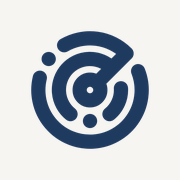
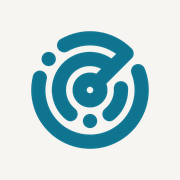
Vurgu rengi: camgöbeği (tek token değişikliği, iki tema)
Sinyal yeşili hem aynı adlı başka bir sitenin renkleriyle aynıydı hem de "olumlu" anlamsal
yeşiliyle karışıyordu. Vurgu artık camgöbeği; olumlu/olumsuz/nötr renklerine dokunulmadı.
- Koyu tema: vurgu ve dolgu #22D3EE, üstündeki yazı #083344 (7.4:1); koyu kartta metin
  olarak 9.9:1.
- Açık tema: metin olarak #0E7490 (kremde 4.9:1, beyazda 5.3:1 — önerilen #0891B2 metinde
  3.7:1 ile AA'yı geçmiyordu), buton dolgusu #06B6D4 + koyu yazı #083344 (5.5:1).
- Token'lar: --accent / --accent-hover / --accent-fg, --signal / --signal-fg / --signal-ink,
  yeni --glow (ışıma ve ince çizgiler; Tailwind shadow-glow ve landing ışımaları buna bağlı).
- Butonlar, aktif sekme/adım, ilerleme çizgileri, odak halkası, sayaçlar, hero radar halkası,
  sticky pencere ışıması ve logo yeni renkte; favicon (.svg/.ico/.png) ve manifest
  theme_color logo kaynağından (src/brand/logo.js) yeniden üretildi. Kodda sabit vurgu rengi
  kalmadı. Bilgi rengi (mavi) bileşenlerde kullanılmıyor → çakışma yok.
- axe: iki temada ihlal yok.

Changed region(s): [[0.1667, 0.1667, 0.8333, 0.8333], [0.2222, 0.2778, 0.3333, 0.3889]]

diff --git a/frontend/src/index.css b/frontend/src/index.css
@@ -42,8 +42,8 @@
   --slate-500: 110 107 101;     /* #6E6B65 */
   --slate-600: 111 108 102;     /* #6F6C66 */
   --slate-700: 196 192 182;     /* #C4C0B6 */
-  --accent: 63 98 18;        /* #3F6212 — sinyal yeşili, metin olarak (AA) */
-  --accent-hover: 77 124 15;  /* #4D7C0F */
+  --accent: 14 116 144;      /* #0E7490 — camgöbeği, metin olarak (AA: kremde 4.9, beyazda 5.3) */
+  --accent-hover: 21 94 117;  /* #155E75 */
   --accent-fg: 255 255 255;     /* #FFFFFF */
   --pos: 13 116 64;           /* #0D7440 */
   --pos-strong: 10 97 54;    /* #0A6136 */
@@ -59,12 +59,13 @@
   --brush-fill: 250 248 244;    /* #FAF8F4 */
   --shadow-card: 0 1px 3px rgb(0 0 0 / 0.04), 0 8px 24px rgb(0 0 0 / 0.04);
   --shadow-card-hover: 0 2px 6px rgb(0 0 0 / 0.06), 0 14px 32px rgb(var(--accent) / 0.10);
-  /* Landing ("/"): tek vurgu = sinyal yeşili (radar). --signal: dolgu/ışıma/çizgi;
-     --signal-ink: metin olarak (AA); --signal-fg / --signal-ink-fg: üstündeki metin.
+  /* TEK vurgu = camgöbeği (radar). --signal: birincil buton dolgusu; --signal-fg: üstündeki
+     metin (koyu, AA); --signal-ink: metin olarak (= --accent); --glow — ışıma ve ince çizgiler.
      Zemin her yerde --ink-900 (koyu: sıcak, neredeyse siyah; açık: krem). */
-  --signal: 163 230 53;       /* #A3E635 */
-  --signal-ink: 63 98 18;     /* #3F6212 */
-  --signal-fg: 26 46 5;       /* #1A2E05 */
+  --signal: 6 182 212;        /* #06B6D4 — dolgu (üstünde #083344: 5.5:1) */
+  --signal-ink: 14 116 144;   /* #0E7490 */
+  --signal-fg: 8 51 68;       /* #083344 */
+  --glow: 6 182 212;          /* #06B6D4 — ışıma, ince çizgiler */
   --signal-ink-fg: 255 255 255; /* #FFFFFF */
   --raised: 255 255 255;      /* #FFFFFF yükseltilmiş yüzey (modal, panel) */
   --chart-line: 42 42 38;     /* #2A2A26 grafik ana çizgisi (nötr, net) */
@@ -84,9 +85,9 @@
   --slate-500: 160 156 147;     /* #A09C93 */
   --slate-600: 143 139 131;     /* #8F8B83 */
   --slate-700: 94 91 85;     /* #5E5B55 */
-  --accent: 190 242 100;        /* #BEF264 — sinyal yeşili */
-  --accent-hover: 212 248 150;  /* #D4F896 */
-  --accent-fg: 20 26 8;     /* #141A08 */
+  --accent: 34 211 238;         /* #22D3EE — camgöbeği (koyu kartta 9.9:1) */
+  --accent-hover: 103 232 249;  /* #67E8F9 */
+  --accent-fg: 8 51 68;     /* #083344 (7.4:1) */
   --pos: 74 222 128;           /* #4ADE80 */
   --pos-strong: 52 211 153;    /* #34D399 */
   --neg: 248 113 113;           /* #F87171 */
@@ -101,10 +102,11 @@
   --brush-fill: 34 34 31;    /* #22221F */
   --shadow-card: 0 1px 2px rgb(0 0 0 / 0.45), 0 8px 24px rgb(0 0 0 / 0.30);
   --shadow-card-hover: 0 2px 6px rgb(0 0 0 / 0.50), 0 14px 32px rgb(var(--accent) / 0.12);
-  --signal: 190 242 100;      /* #BEF264 */
-  --signal-ink: 190 242 100;  /* #BEF264 */
-  --signal-fg: 20 26 8;       /* #141A08 */
-  --signal-ink-fg: 20 26 8;   /* #141A08 */
+  --signal: 34 211 238;       /* #22D3EE */
+  --signal-ink: 34 211 238;   /* #22D3EE */
+  --signal-fg: 8 51 68;       /* #083344 */
+  --signal-ink-fg: 8 51 68;   /* #083344 */
+  --glow: 34 211 238;         /* #22D3EE */
   --raised: 30 30 27;         /* #1E1E1B yükseltilmiş yüzey (modal, panel) */
   --chart-line: 228 225 218;  /* #E4E1DA grafik ana çizgisi (nötr, net) */
   --shadow-raised: 0 2px 8px rgb(0 0 0 / 0.5), 0 24px 60px -12px rgb(0 0 0 / 0.6);
@@ -124,9 +126,9 @@
     --slate-500: 160 156 147;     /* #A09C93 */
     --slate-600: 143 139 131;     /* #8F8B83 */
     --slate-700: 94 91 85;     /* #5E5B55 */
-    --accent: 190 242 100;        /* #BEF264 — sinyal yeşili */
-    --accent-hover: 212 248 150;  /* #D4F896 */
-    --accent-fg: 20 26 8;     /* #141A08 */
+    --accent: 34 211 238;         /* #22D3EE — camgöbeği (koyu kartta 9.9:1) */
+    --accent-hover: 103 232 249;  /* #67E8F9 */
+    --accent-fg: 8 51 68;     /* #083344 (7.4:1) */
     --pos: 74 222 128;           /* #4ADE80 */
     --pos-strong: 52 211 153;    /* #34D399 */
     --neg: 248 113 113;           /* #F87171 */
@@ -141,10 +143,11 @@
     --brush-fill: 34 34 31;    /* #22221F */
     --shadow-card: 0 1px 2px rgb(0 0 0 / 0.45), 0 8px 24px rgb(0 0 0 / 0.30);
     --shadow-card-hover: 0 2px 6px rgb(0 0 0 / 0.50), 0 14px 32px rgb(var(--accent) / 0.12);
-    --signal: 190 242 100;      /* #BEF264 */
-    --signal-ink: 190 242 100;  /* #BEF264 */
-    --signal-fg: 20 26 8;       /* #141A08 */
-    --signal-ink-fg: 20 26 8;   /* #141A08 */
+    --signal: 34 211 238;       /* #22D3EE */
+    --signal-ink: 34 211 238;   /* #22D3EE */
+    --signal-fg: 8 51 68;       /* #083344 */
+    --signal-ink-fg: 8 51 68;   /* #083344 */
+    --glow: 34 211 238;         /* #22D3EE */
     --raised: 30 30 27;         /* #1E1E1B yükseltilmiş yüzey (modal, panel) */
     --chart-line: 228 225 218;  /* #E4E1DA grafik ana çizgisi (nötr, net) */
     --shadow-raised: 0 2px 8px rgb(0 0 0 / 0.5), 0 24px 60px -12px rgb(0 0 0 / 0.6);
@@ -308,8 +311,8 @@ body {
 /* "Yenile"ye dikkat çek (yeni şirket eklendi, analiz yok): kısa, iki kez nabız. */
 .attn { animation: attn 1.2s var(--ease) 2; }
 @keyframes attn {
-  0%, 100% { box-shadow: 0 0 0 0 rgb(var(--signal) / 0); }
-  40% { box-shadow: 0 0 0 6px rgb(var(--signal) / 0.35); }
+  0%, 100% { box-shadow: 0 0 0 0 rgb(var(--glow) / 0); }
+  40% { box-shadow: 0 0 0 6px rgb(var(--glow) / 0.35); }
 }
 /* Header altındaki ince ilerleme çizgisi (içeriği itmez) */
 .nav-progress { transition: transform var(--dur-state) var(--ease); transform-origin: left; }
@@ -484,11 +487,11 @@ html.lenis, html.lenis body { height: auto; }
 /* Uygulama penceresi (nasıl çalışır): yumuşak gölge + kenarda çok hafif sinyal ışıması. */
 .lx-window {
   box-shadow: 0 0 0 1px rgb(var(--signal-ink) / 0.16), 0 40px 90px -36px rgb(0 0 0 / 0.65),
-    0 0 90px -30px rgb(var(--signal) / 0.32);
+    0 0 90px -30px rgb(var(--glow) / 0.32);
 }
 :root[data-theme="light"] .lx-window {
   box-shadow: 0 0 0 1px rgb(var(--signal-ink) / 0.18), 0 30px 70px -34px rgb(0 0 0 / 0.22),
-    0 0 80px -34px rgb(var(--signal) / 0.45);
+    0 0 80px -34px rgb(var(--glow) / 0.45);
 }
 /* Adım durumu: soluk ↔ tam renk. Soluk hal de AA (slate-600), yalnızca renk geçişi. */
 .lx-step { color: rgb(var(--slate-600)); transition: color var(--dur-state) var(--ease); }

diff --git a/frontend/tailwind.config.js b/frontend/tailwind.config.js
@@ -7,9 +7,9 @@
 //    raised = yükseltilmiş yüzey (modal, panel).
 //  - slate-* = metin. DİKKAT: ölçek TERS — küçük numara = KOYU/önemli metin (açık temada),
 //    büyük numara = soluk. Koyu temada da aynı anlam: 100 = en belirgin metin.
-//  - accent  = TEK vurgu: sinyal yeşili (metin olarak AA tonu); accent-fg = üstündeki metin.
+//  - accent  = TEK vurgu: camgöbeği (metin olarak AA tonu); accent-fg = üstündeki metin.
 //    YALNIZCA birincil aksiyon, aktif durum ve marka anlarında — anlamsal renklerle karışmaz.
-//  - signal / signal-fg = birincil buton dolgusu (canlı yeşil) ve üstündeki metin.
+//  - signal / signal-fg = birincil buton dolgusu (canlı camgöbeği) ve üstündeki metin; glow = ışıma.
 //  - emerald/rose/amber/sky = sinyal tonları (pos/neg/warn/info); 500-600 "güçlü" tonlar.
 const v = (name) => `rgb(var(--${name}) / <alpha-value>)`;
 export default {
@@ -22,10 +22,11 @@ export default {
         "accent-hover": v("accent-hover"),
         "accent-fg": v("accent-fg"),
         "on-strong": v("on-strong"),
-        // Birincil aksiyon dolgusu (canlı sinyal yeşili) + üstündeki metin. Ayrıntı: index.css.
+        // Birincil aksiyon dolgusu (canlı camgöbeği) + üstündeki metin + ışıma. Ayrıntı: index.css.
         signal: v("signal"),
         "signal-ink": v("signal-ink"),
         "signal-fg": v("signal-fg"),
+        glow: v("glow"),
         raised: v("raised"),
         "chart-line": v("chart-line"),
         slate: {
@@ -64,7 +65,7 @@ export default {
         card: "var(--shadow-card)",
         "card-hover": "var(--shadow-card-hover)",
         raised: "var(--shadow-raised)",
-        glow: "0 10px 28px -12px rgb(var(--signal) / 0.7)",
+        glow: "0 10px 28px -12px rgb(var(--glow) / 0.7)",
       },
       keyframes: {
         "card-in": {

diff --git a/frontend/src/components/kit.jsx b/frontend/src/components/kit.jsx
@@ -1,6 +1,6 @@
 // Ortak bileşen kütüphanesi — landing ve uygulama AYNI parçaları kullanır.
 // Renk/ölçek/yarıçap/gölge token'ları: index.css (+ tailwind.config.js), hareket: src/motion.js.
-// İlkeler: az çizgi, az kutu — ayrım yüzey tonu, boşluk ve tipografiyle. Tek vurgu (sinyal yeşili)
+// İlkeler: az çizgi, az kutu — ayrım yüzey tonu, boşluk ve tipografiyle. Tek vurgu (camgöbeği)
 // yalnızca birincil aksiyon ve aktif durumda. Odak halkası global (:focus-visible, index.css).
 // İkon seti: lucide-react, varsayılan çizgi kalınlığı (2).
 import React, { forwardRef, useEffect, useLayoutEffect, useRef, useState } from "react";
@@ -12,7 +12,7 @@ import { DUR, EASE_CSS, prefersReducedMotion } from "../motion.js";
 const cx = (...parts) => parts.filter(Boolean).join(" ");
 
 // ── Button ──────────────────────────────────────────────────────────────────────
-// primary: sinyal yeşili dolgulu · secondary: sade, ince kenarlı · ghost: yalnızca metin.
+// primary: camgöbeği dolgulu · secondary: sade, ince kenarlı · ghost: yalnızca metin.
 // iconOnly: kare ikon butonu (aria-label zorunlu). Aynı boyutta aynı yükseklik/yarıçap/hover.
 const BTN_BASE =
   "inline-flex shrink-0 select-none items-center justify-center gap-2 whitespace-nowrap rounded-full font-medium " +

diff --git a/frontend/src/brand/logo.js b/frontend/src/brand/logo.js
@@ -20,8 +20,8 @@ export const LOGO_ELEMENTS = [
 
 // Renk: sitenin vurgu rengi — açık tema --accent, koyu tema --accent (src/index.css ile AYNI;
 // header logosu currentColor ile bu değişkeni izler, favicon statik olduğu için değer burada).
-export const LOGO_COLOR = "#1E3A5F";
-export const LOGO_COLOR_DARK = "#8FB4E3";
+export const LOGO_COLOR = "#0E7490";
+export const LOGO_COLOR_DARK = "#22D3EE";
 // Header'daki çizgi kalınlığı; favicon'da 16px'te okunsun diye daha kalın (şekil aynı).
 export const LOGO_STROKE = 2;
 export const FAVICON_STROKE = 2.75;
